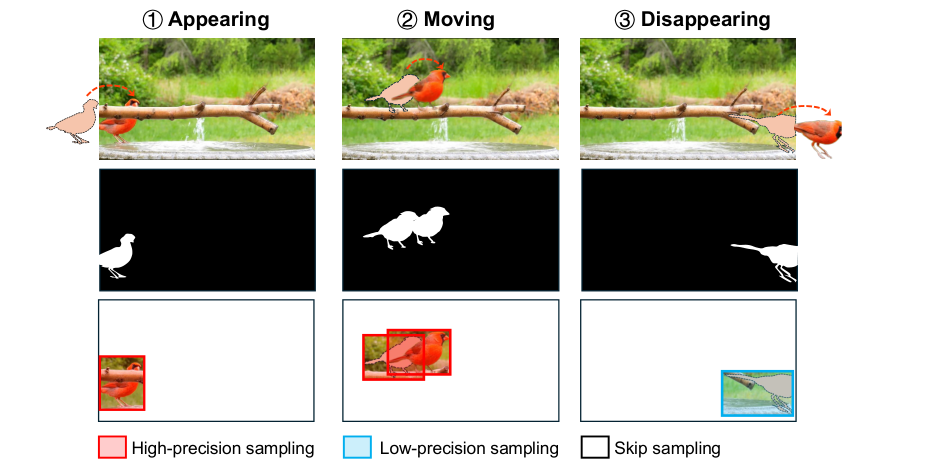
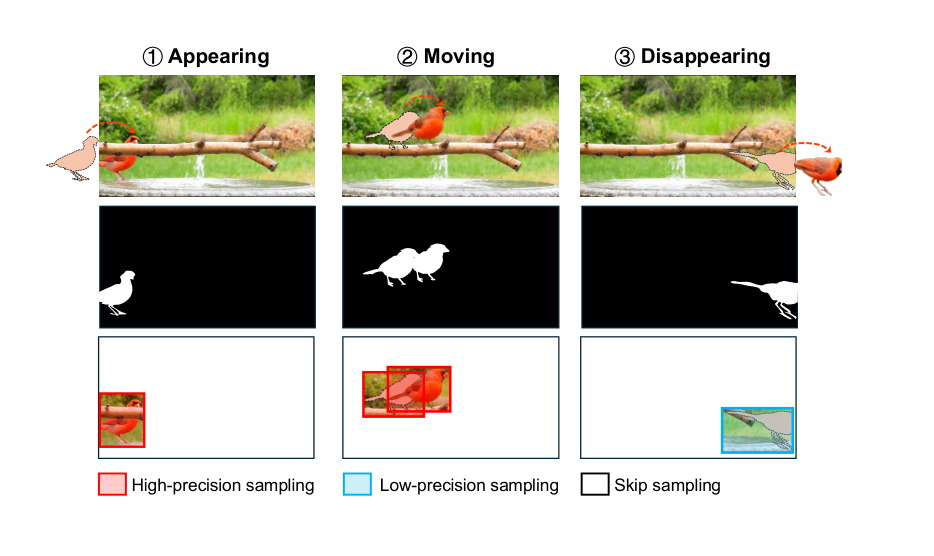
deltasight/plates: 图版四周补白边，图注与出处条不再压住图内文字（8 张，含 Fig.5）

Changed region(s): [[0.031, 0.0, 0.9004, 0.3889], [0.0931, 0.4786, 0.8694, 0.9872], [0.3726, 0.4487, 0.4968, 0.5385]]

diff --git a/singles/deltasight/build/deltasight_paper.py b/singles/deltasight/build/deltasight_paper.py
@@ -13,9 +13,14 @@
 """
 import argparse, hashlib, json, os, sys
 
+from PIL import Image
+
 PAPER = "/root/tex_project/my_prof_12/jd1/01-source/3770743.3804070.pdf"
 DPI = 300
 LICENSE = "CC-BY-4.0"
+# 上下白边（占图片宽度的比例）：见 crop 之后那段注释
+PAD_TOP = 0.04
+PAD_BOTTOM = 0.055
 SOURCE = "Qinyu Wang, Cen Chen, Jingkai Huang, Yawen Qiu, Hongen Shao, Xiaofeng Zou, Ziqian Zeng. DeltaSight: Architecting Efficient Video AIoT Systems via Cross-Stage Consistent Redundancy Elimination. DAC '26, Long Beach, CA, USA. DOI 10.1145/3770743.3804070. CC-BY-4.0."
 
 # (id, page, x0, y0, x1, y1, doc, figure, note)
@@ -25,7 +30,7 @@ RECTS = [
     ("fig1-pipeline", 1, 322, 381, 600, 479, "§1 Fig.1",
      "Processing pipeline of a visual AIoT system",
      "sensing（像素阵列→ADC→ISP）→ transmission（MIPI）→ computing（模型）；右下角是 4-bit SAR ADC 的 0/1/3/4 bit 示例"),
-    ("fig2-pruning", 2, 316, 78, 565, 139, "§2.3 Fig.2",
+    ("fig2-pruning", 2, 316, 78, 565, 140.5, "§2.3 Fig.2",
      "(a) pruning-rate vs mAP; (b) noise injection in different regions",
      "M1 与 M2 的原始证据：(a) 剪掉 60% 以上精度几乎不变；(b) 目标区域加噪掉点、非目标区域加噪几乎不掉"),
     ("fig3-scenes", 3, 66, 255, 290, 367, "§3 Fig.3",
@@ -102,6 +107,18 @@ def main():
         name = "p%d-%s.png" % (pg, pid)
         path = os.path.join(args.plates_dir, name)
         pix.save(path)
+        # 白边：引擎的 SourcePlate 把「原文」徽标压在左上、把出处条压在图片底部约 26 渲染像素上，
+        # 贴底内容（fig2 的 x 轴标签、fig3 的采样精度图例）会被盖住。这里只加白、不动内容：
+        # 徽标与出处条落在白边上，缩放到任意渲染宽度都留出余量。
+        # pad_top = 0.028、pad_bottom = 0.05 都是按渲染宽度 780–980 px 反推的（26 px / 780 px ≈ 3.3%）。
+        _img = Image.open(path).convert("RGB")
+        _w, _h = _img.size
+        _pt = int(round(PAD_TOP * _w))
+        _pb = int(round(PAD_BOTTOM * _w))
+        _canvas = Image.new("RGB", (_w, _h + _pt + _pb), (255, 255, 255))
+        _canvas.paste(_img, (0, _pt))
+        _canvas.save(path)
+        pix_w, pix_h = _canvas.size
         # 黄像素自检：纸面本身没有高亮黄，超过 0.2% 说明批注被压平进了内容
         samples = pix.samples
         n = pix.width * pix.height
@@ -127,13 +144,13 @@ def main():
             "license": LICENSE,
             "attribution": "Qinyu Wang et al., DeltaSight, DAC'26, p.%d, %s, CC-BY-4.0" % (pg, sec.split(" ")[1]),
             "note": note,
-            "width": pix.width,
-            "height": pix.height,
+            "width": pix_w,
+            "height": pix_h,
             "_sha256_16": sha,
             "_yellow_pct": round(frac * 100, 4),
             "_bytes": size,
         })
-        print("plate %-16s p%d %4dx%-4d %6.1f KB yellow=%.3f%% sha=%s" % (pid, pg, pix.width, pix.height, size / 1024.0, frac * 100, sha))
+        print("plate %-16s p%d %4dx%-4d %6.1f KB yellow=%.3f%% sha=%s" % (pid, pg, pix_w, pix_h, size / 1024.0, frac * 100, sha))
 
     manifest = {
         "schemaVersion": 1,
